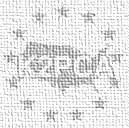
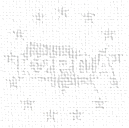
changed background

diff --git a/officers.html b/officers.html
@@ -102,7 +102,7 @@ function FP_getObjectByID(id,o) {//v1.0
 						<td class="auto-style9" style="width: 416px"><strong>
 						Vice President</strong></td>
 						<td class="auto-style9" style="width: 374px"><strong>
-						Robert Dugan - AC2LH</strong></td>
+						Robert Dugan - KD2KOR</strong></td>
 					</tr>
 					<tr>
 						<td class="auto-style9" style="width: 416px"><strong>
@@ -174,6 +174,14 @@ function FP_getObjectByID(id,o) {//v1.0
 						International Representative</strong></td>
 						<td class="auto-style9" style="width: 374px"><strong>
 						Mark Bannon - EI6HPB</strong></td>
+					</tr>
+					<tr>
+						<td class="auto-style9" style="width: 416px"><strong>
+						Webmasters</strong></td>
+						<td class="auto-style9" style="width: 374px"><strong>
+						Kevin Maehrer - KC3IBK</strong></td>
+						<td class="auto-style9" style="width: 374px"><strong>
+						Mark Khusid - AC2LH</strong></td>
 					</tr>
 				</table>
 				</td>
